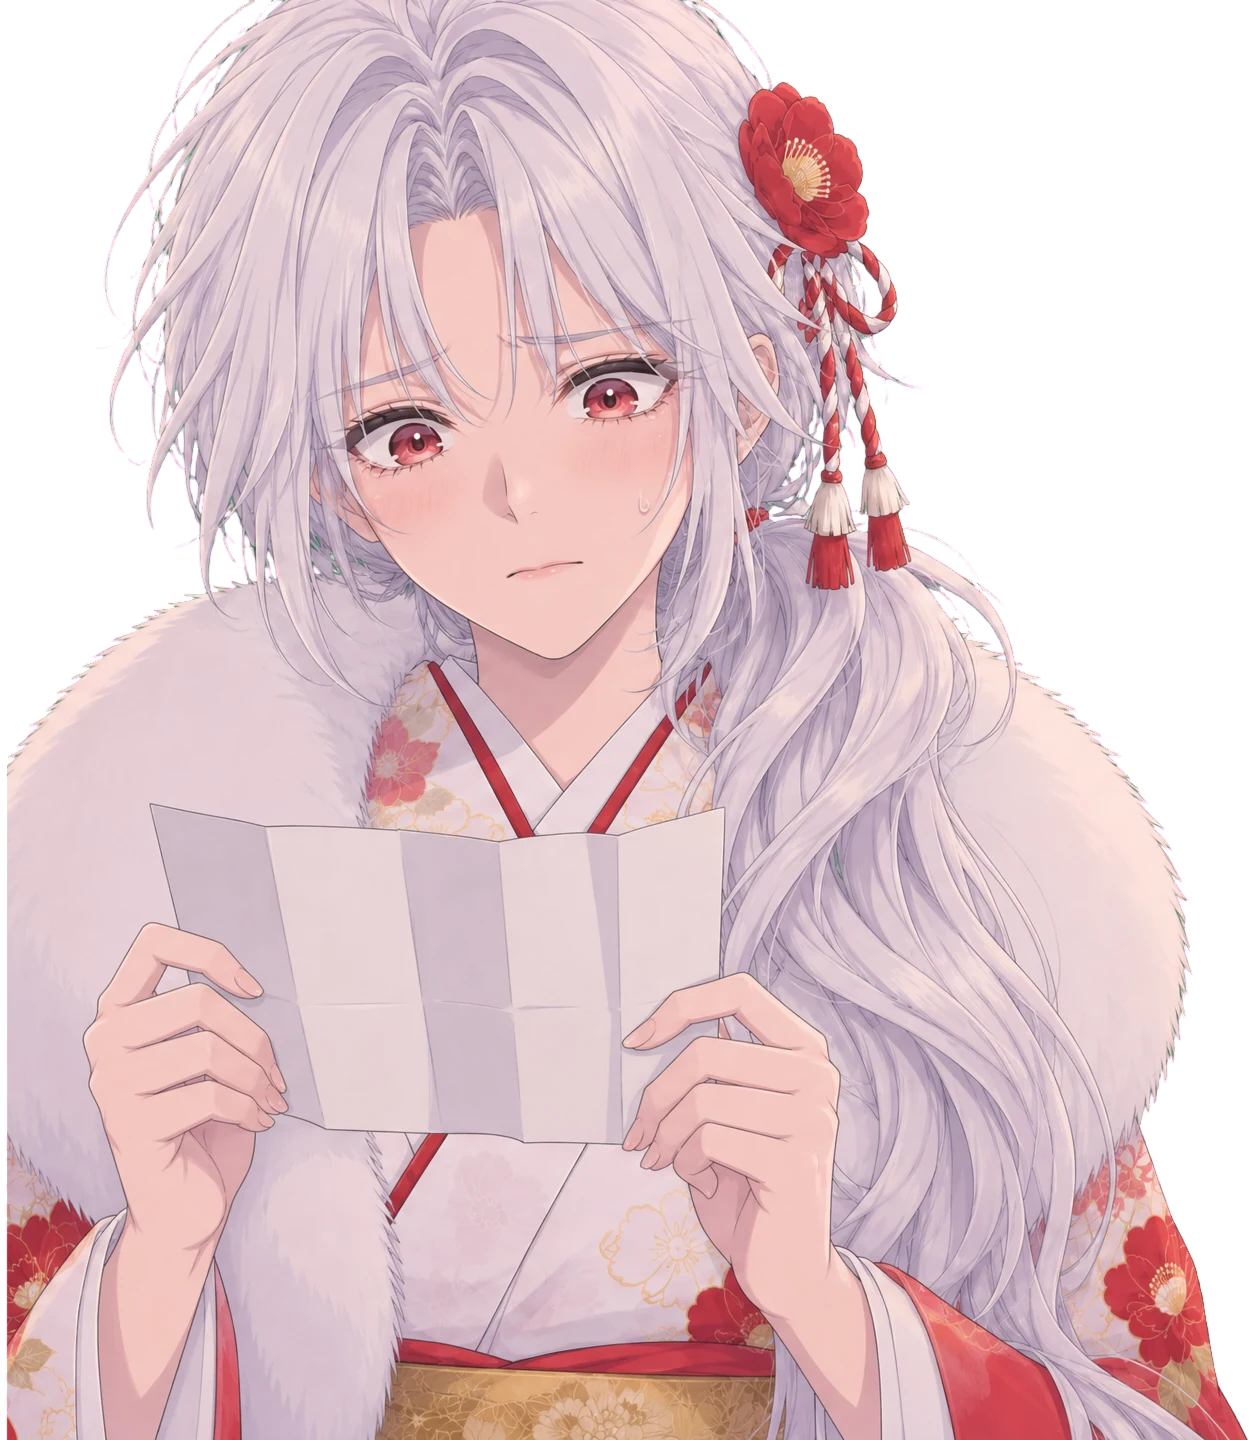
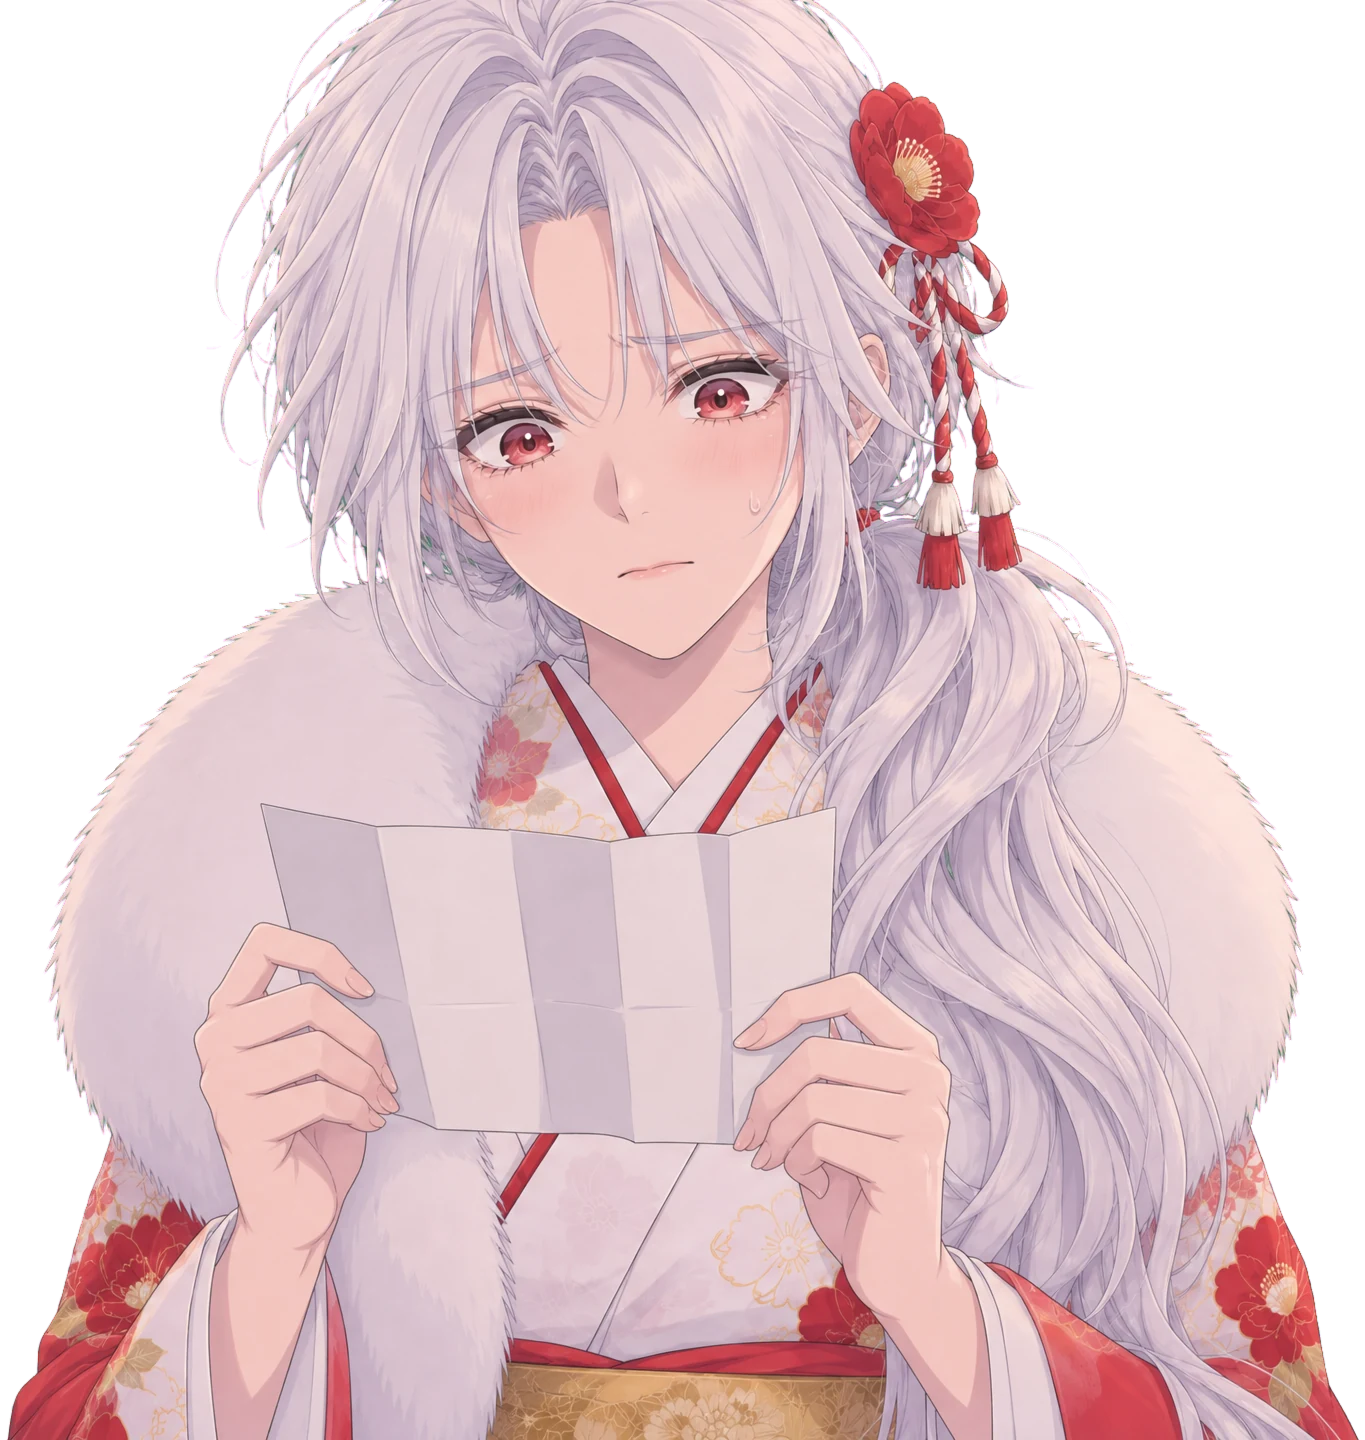
Demo25 Tsubaki omikuji: the fur collar ended on a vertical ruler line at 31 % of the frame - stage.json "erase" [0,0,800,1440] (meant for the omikuji rack) also cut the fur at x 800 -> erase only the rack ([0,0,600,1440] + the top beam [0,0,800,260]); the pose was rebuilt in a scratch copy (build_st

diff --git a/demos/for-men/Demo25_HatsumodeDate/media/layers.js b/demos/for-men/Demo25_HatsumodeDate/media/layers.js
@@ -454,14 +454,14 @@ window.MOHEAT_LAYERS = {
     ]
    },
    "char": {
-    "src": "art/char_omikuji.webp?v=b468e5e2",
-    "w": 1254,
+    "src": "art/char_omikuji.webp?v=73878c21",
+    "w": 1365,
     "h": 1440,
-    "x": 0.5547,
+    "x": 0.533,
     "y": 1.0,
     "height": 1.0,
     "box": [
-     793,
+     682,
      0,
      2047,
      1440
@@ -471,7 +471,7 @@ window.MOHEAT_LAYERS = {
     {
      "src": "art/omikuji_eyes.webp?v=c84b6bdd",
      "rect": [
-      285,
+      396,
       305,
       456,
       209
@@ -481,7 +481,7 @@ window.MOHEAT_LAYERS = {
     {
      "src": "art/omikuji_mouth0.webp?v=079f50f1",
      "rect": [
-      465,
+      576,
       505,
       160,
       137
@@ -492,7 +492,7 @@ window.MOHEAT_LAYERS = {
     {
      "src": "art/omikuji_mouth1.webp?v=17fff08d",
      "rect": [
-      465,
+      576,
       505,
       160,
       137
@@ -503,7 +503,7 @@ window.MOHEAT_LAYERS = {
     {
      "src": "art/omikuji_mouth2.webp?v=10d9e332",
      "rect": [
-      465,
+      576,
       505,
       160,
       137
@@ -514,7 +514,7 @@ window.MOHEAT_LAYERS = {
     {
      "src": "art/omikuji_mouth3.webp?v=7cde4a5a",
      "rect": [
-      465,
+      576,
       505,
       160,
       137

diff --git a/demos/for-men/Demo25_HatsumodeDate/index.html b/demos/for-men/Demo25_HatsumodeDate/index.html
@@ -86,15 +86,15 @@
   </main>
 
   <script src="../../../device.js?v=2"></script>
-  <script src="lines.js?v=1"></script>
-  <script src="audio.js?v=1"></script>
+  <script src="lines.js?v=d500bdf1"></script>
+  <script src="audio.js?v=413bb6bd"></script>
   <!-- story / sound / thermal code (unchanged since the first version); shared/layers.js draws the layered art in place of its stills -->
-  <script src="media/layers.js?v=3"></script>
+  <script src="media/layers.js?v=01b71dd7"></script>
   <script>MOHEAT_LAYERS.skipVideo = 'media/video/';</script>
   <script src="../../shared/layers.js?v=f71de857"></script>
   <script src="../../shared/shell.js?v=76ca6784"></script>
   <script src="../../shared/cover.js?v=1"></script>
-  <script src="main.js?v=6"></script>
+  <script src="main.js?v=4423ee49"></script>
   <script src="../../shared/voice.js?v=6"></script>
   <script src="../../shared/nav.js?v=44"></script>
 </body>

diff --git a/demos/for-men/Demo25_HatsumodeDate/main.js b/demos/for-men/Demo25_HatsumodeDate/main.js
@@ -17,7 +17,7 @@
   // ---------------------------------------------------------------- art: one still per view
   const VIEWS = ['torii', 'stall', 'amazake', 'fire', 'close', 'pray', 'omikuji', 'stole'];
   const IMG = {};
-  const artReady = Promise.all(VIEWS.map((n) => new Promise((res) => { const im = new Image(); im.onload = () => { IMG[n] = im; res(); }; im.onerror = () => res(); im.src = `media/art/tsubaki_${n}.jpg?v=1`; })));
+  const artReady = Promise.all(VIEWS.map((n) => new Promise((res) => { const im = new Image(); im.onload = () => { IMG[n] = im; res(); }; im.onerror = () => res(); im.src = `media/art/tsubaki_${n}.jpg?v=2`; })));
 
   // ---------------------------------------------------------------- state
   const fresh = () => ({ started: false, t: 0, clock: 0, view: 'torii', cold: 1, fire: 0, cup: 0, near: 0, nearAz: 1.2, stole: 0, gust: null,

diff --git a/tools/art/check_art.py b/tools/art/check_art.py
@@ -20,6 +20,7 @@ import numpy as np
 from PIL import Image
 
 FRAME_H = 1080
+CUT_SKIP = 2               # px at the picture border not searched for straight cuts (the border itself is check_cut_body's)
 MARGIN_OK = 0.015          # a top / side cut edge must sit ≥ 1.5 % outside the frame (the bottom is anchored there on purpose)
 KEYS = {'green': (0, 177, 64), 'magenta': (255, 0, 255), 'grey': (200, 200, 200), 'gray': (200, 200, 200), 'midgrey': (112, 112, 112)}
 
@@ -82,13 +83,13 @@ def fringe(a, key):
 
 def cut_outside(al, side, c):
     """where the longest straight cut of a layer lands in the 16:9 frame; True when it is ≥ MARGIN_OK outside the frame there."""
-    o, t = al[10:-10, 10:-10] > 200, al[10:-10, 10:-10] < 30
+    B = CUT_SKIP; o, t = al[B:-B, B:-B] > 200, al[B:-B, B:-B] < 30
     e = {'right': o[:, :-3] & t[:, 3:], 'left': t[:, :-3] & o[:, 3:], 'top': t[:-3] & o[3:], 'bottom': o[:-3] & t[3:]}[side]
     H, W = al.shape; hf = c['height']; wf = hf * (c['w'] / c['h']) * (9 / 16)
     if side in ('right', 'left'):
-        x = (int(np.argmax(e.sum(0))) + 10 + (2 if side == 'right' else 1)) / W; fx = c['x'] - wf / 2 + x * wf
+        x = (int(np.argmax(e.sum(0))) + B + (2 if side == 'right' else 1)) / W; fx = c['x'] - wf / 2 + x * wf
         return fx >= 1 + MARGIN_OK if side == 'right' else fx <= -MARGIN_OK
-    y = (int(np.argmax(e.sum(1))) + 11) / H; fy = c['y'] - hf + y * hf
+    y = (int(np.argmax(e.sum(1))) + B + 1) / H; fy = c['y'] - hf + y * hf
     return fy >= 1 + MARGIN_OK if side == 'bottom' else fy <= -MARGIN_OK
 
 
@@ -127,7 +128,9 @@ def check(D, verbose=False):
             try:
                 sys.path.insert(0, os.path.dirname(os.path.abspath(__file__))); import check_cut_body
                 hard = np.where(a[..., 3] > 128, 255, 0)   # binarised: a softened / feathered ruler edge must not slip past (Demo12 hug after matting)
-                for side, f in check_cut_body.straight_cuts(hard[10:-10, 10:-10]):   # border rows = the picture edge (check_cut_body)
+                # border rows = the picture edge (check_cut_body); only 2 px are skipped — Demo25 omikuji's fur was cut on a ruler line 7 px
+                # inside the picture (an "erase" box), which the old 10 px skip and check_cut_body's 3 px edge band both missed
+                for side, f in check_cut_body.straight_cuts(hard[CUT_SKIP:-CUT_SKIP, CUT_SKIP:-CUT_SKIP]):
                     if all(cut_outside(hard, side, w['char']) for w in views.values() if (w.get('char') or {}).get('src', '').split('?')[0] == src):
                         continue   # the ruler line lies ≥ 1.5 % outside the frame in every view that shows this layer (Demo12 call, moved right)
                     out.append(('FAIL' if side == 'top' else 'WARN', 'edge-margin', f'{src}: straight {side} cut {f:.0%} long inside the picture (flat head / ruler-cut body) → tools/art/complete_cutout.py or extend_pose.py'))
